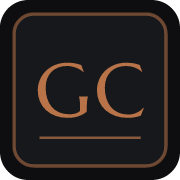
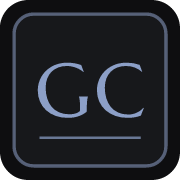
feat: tinta de assinatura índigo — sistema produto
Acento completo #8C9FC7 (índigo ferrogálico — a tinta da escrita)
substituindo o cobre: links, prose, filetes, syntax highlight,
Pagefind, favicon GC e OG cards pt/en.

Generated with [Devin](https://devin.ai)

diff --git a/components/pages.tsx b/components/pages.tsx
@@ -32,7 +32,7 @@ export async function HomePage({ locale }: { locale: Locale }) {
   return (
     <Shell locale={locale} currentPath="/">
       <header className="mb-10">
-        <p className="text-xs uppercase tracking-[0.32em] text-copper mb-3">
+        <p className="text-xs uppercase tracking-[0.32em] text-ink mb-3">
           {site.tagline[locale]}
         </p>
         <h1 className="font-display text-4xl sm:text-5xl text-bone tracking-[-0.015em]">
@@ -62,7 +62,7 @@ function TaxonomyChips({ entry, locale }: { entry: Entry; locale: Locale }) {
         <Link
           key={href}
           href={href}
-          className="text-[11px] uppercase tracking-[0.18em] text-dim border border-copper/30 rounded px-2 py-1 hover:text-copper hover:border-copper/60 transition-colors"
+          className="text-[11px] uppercase tracking-[0.18em] text-dim border border-ink/30 rounded px-2 py-1 hover:text-ink hover:border-ink/60 transition-colors"
         >
           {name}
         </Link>
@@ -94,8 +94,8 @@ export async function PostPage({ slug, locale }: { slug: string; locale: Locale 
         </header>
 
         {post.toc.length > 2 && (
-          <nav className="border border-copper/25 rounded-md bg-stock px-5 py-4 mb-10">
-            <p className="engraved-title text-[11px] uppercase text-copper mb-3">
+          <nav className="border border-ink/25 rounded-md bg-stock px-5 py-4 mb-10">
+            <p className="engraved-title text-[11px] uppercase text-ink mb-3">
               {t(locale, 'toc')}
             </p>
             <ul className="space-y-1.5">
@@ -103,7 +103,7 @@ export async function PostPage({ slug, locale }: { slug: string; locale: Locale 
                 <li key={item.id} style={{ paddingLeft: `${(item.depth - 2) * 1.25}rem` }}>
                   <a
                     href={`#${item.id}`}
-                    className="text-sm text-dim hover:text-copper transition-colors"
+                    className="text-sm text-dim hover:text-ink transition-colors"
                   >
                     {item.text}
                   </a>
@@ -115,8 +115,8 @@ export async function PostPage({ slug, locale }: { slug: string; locale: Locale 
 
         <MarkdownBody html={post.html} />
 
-        <div className="mt-16 pt-8 border-t border-copper/25">
-          <p className="engraved-title text-[11px] uppercase text-copper mb-2">
+        <div className="mt-16 pt-8 border-t border-ink/25">
+          <p className="engraved-title text-[11px] uppercase text-ink mb-2">
             {t(locale, 'comments')}
           </p>
           <DisqusComments
@@ -163,7 +163,7 @@ export async function ArchivesPage({ locale }: { locale: Locale }) {
       <h1 className="engraved-title text-sm uppercase mb-8">{t(locale, 'archives')}</h1>
       {[...byYear.entries()].map(([year, yearPosts]) => (
         <section key={year} className="mb-10">
-          <h2 className="font-display text-2xl text-copper mb-2">{year}</h2>
+          <h2 className="font-display text-2xl text-ink mb-2">{year}</h2>
           <PostList posts={yearPosts} locale={locale} />
         </section>
       ))}

diff --git a/components/SiteHeader.tsx b/components/SiteHeader.tsx
@@ -16,18 +16,18 @@ export function SiteHeader({ locale, currentPath }: Props) {
   ];
 
   return (
-    <header className="border-b border-copper/25 bg-desk/85 backdrop-blur-sm sticky top-0 z-50">
+    <header className="border-b border-ink/25 bg-desk/85 backdrop-blur-sm sticky top-0 z-50">
       <div className="max-w-3xl mx-auto flex items-center justify-between px-4 py-4">
         <Link
           href={localePath(locale, '/')}
-          className="group flex items-center gap-3 font-display text-lg text-bone tracking-[-0.015em] hover:text-copper transition-colors"
+          className="group flex items-center gap-3 font-display text-lg text-bone tracking-[-0.015em] hover:text-ink transition-colors"
         >
           <img
             src={`${process.env.NEXT_PUBLIC_BASE_PATH ?? ''}/img/avatar-artistic.png`}
             alt=""
             width={32}
             height={32}
-            className="rounded-full border border-copper/45 shadow-[0_0_0_2px_#0e0e10,0_0_0_3px_rgba(184,115,72,0.35)] group-hover:border-copper transition-colors"
+            className="rounded-full border border-ink/45 shadow-[0_0_0_2px_#0e0e10,0_0_0_3px_rgba(184,115,72,0.35)] group-hover:border-ink transition-colors"
           />
           {site.name}
         </Link>
@@ -39,9 +39,9 @@ export function SiteHeader({ locale, currentPath }: Props) {
               <Link
                 key={link.href}
                 href={link.href}
-                className={`relative py-1 text-[11px] uppercase tracking-[0.22em] transition-colors hover:text-copper ${
+                className={`relative py-1 text-[11px] uppercase tracking-[0.22em] transition-colors hover:text-ink ${
                   active
-                    ? 'text-copper after:absolute after:inset-x-0 after:bottom-0 after:h-px after:bg-copper/70'
+                    ? 'text-ink after:absolute after:inset-x-0 after:bottom-0 after:h-px after:bg-ink/70'
                     : 'text-dim'
                 }`}
               >
@@ -51,7 +51,7 @@ export function SiteHeader({ locale, currentPath }: Props) {
           })}
           <Link
             href={altLocalePath(locale, currentPath)}
-            className="text-[11px] uppercase tracking-[0.22em] text-dim border border-copper/30 rounded px-2 py-1 hover:text-copper hover:border-copper/60 transition-colors"
+            className="text-[11px] uppercase tracking-[0.22em] text-dim border border-ink/30 rounded px-2 py-1 hover:text-ink hover:border-ink/60 transition-colors"
             hrefLang={locale === 'pt' ? 'en' : 'pt-BR'}
           >
             {locale === 'pt' ? 'EN' : 'PT'}

diff --git a/app/globals.css b/app/globals.css
@@ -18,12 +18,12 @@ body {
 }
 
 ::selection {
-  background: #b87348;
+  background: #8C9FC7;
   color: #17181b;
 }
 
 :focus-visible {
-  outline: 2px solid #b87348;
+  outline: 2px solid #8C9FC7;
   outline-offset: 3px;
 }
 
@@ -49,7 +49,7 @@ a {
 .studio-light {
   background: radial-gradient(
     1200px 600px at 50% -10%,
-    rgba(184, 115, 72, 0.09),
+    rgba(140, 159, 199, 0.09),
     transparent 62%
   );
 }
@@ -70,12 +70,12 @@ a {
   content: "";
   flex: 1;
   height: 1px;
-  background: linear-gradient(to right, rgba(184, 115, 72, 0.45), transparent);
+  background: linear-gradient(to right, rgba(140, 159, 199, 0.45), transparent);
 }
 
 /* filete de hairline cobre */
 .filete {
-  border-color: rgba(184, 115, 72, 0.25);
+  border-color: rgba(140, 159, 199, 0.25);
 }
 
 /* reveal — blocos sobem ao entrar no viewport (CSS puro, sem JS) */
@@ -97,21 +97,21 @@ a {
 }
 
 /* ——— Código (rehype-highlight) na paleta ——— */
-.hljs-keyword, .hljs-selector-tag, .hljs-built_in { color: #b87348; }
-.hljs-string, .hljs-attr, .hljs-template-variable { color: #d9a06e; }
+.hljs-keyword, .hljs-selector-tag, .hljs-built_in { color: #8C9FC7; }
+.hljs-string, .hljs-attr, .hljs-template-variable { color: #A9BAD9; }
 .hljs-comment, .hljs-quote { color: #9c9486; font-style: italic; }
-.hljs-number, .hljs-literal, .hljs-symbol { color: #e2a56e; }
+.hljs-number, .hljs-literal, .hljs-symbol { color: #B3C3E4; }
 .hljs-title, .hljs-name, .hljs-section { color: #efe9dc; }
 pre.hljs, .hljs { background: #17181b; }
 
 /* ——— Pagefind UI na paleta ——— */
 :root {
   --pagefind-ui-scale: 1;
-  --pagefind-ui-primary: #b87348;
+  --pagefind-ui-primary: #8C9FC7;
   --pagefind-ui-text: #efe9dc;
   --pagefind-ui-background: #17181b;
-  --pagefind-ui-border: rgba(184, 115, 72, 0.3);
-  --pagefind-ui-tag: rgba(184, 115, 72, 0.15);
+  --pagefind-ui-border: rgba(140, 159, 199, 0.3);
+  --pagefind-ui-tag: rgba(140, 159, 199, 0.15);
   --pagefind-ui-border-width: 1px;
   --pagefind-ui-border-radius: 4px;
   --pagefind-ui-font: 'Spectral', Georgia, serif;

diff --git a/tailwind.config.ts b/tailwind.config.ts
@@ -10,7 +10,7 @@ const config: Config = {
         desk: '#0E0E10',
         stock: '#17181B',
         bone: '#EFE9DC',
-        copper: '#B87348',
+        ink: '#8C9FC7',
         dim: '#9C9486',
       },
       fontFamily: {
@@ -23,22 +23,22 @@ const config: Config = {
             '--tw-prose-body': '#EFE9DC',
             '--tw-prose-headings': '#EFE9DC',
             '--tw-prose-lead': '#9C9486',
-            '--tw-prose-links': '#B87348',
+            '--tw-prose-links': '#8C9FC7',
             '--tw-prose-bold': '#EFE9DC',
-            '--tw-prose-counters': '#B87348',
-            '--tw-prose-bullets': '#B87348',
-            '--tw-prose-hr': 'rgba(184,115,72,0.3)',
+            '--tw-prose-counters': '#8C9FC7',
+            '--tw-prose-bullets': '#8C9FC7',
+            '--tw-prose-hr': 'rgba(140,159,199,0.3)',
             '--tw-prose-quotes': '#9C9486',
-            '--tw-prose-quote-borders': '#B87348',
+            '--tw-prose-quote-borders': '#8C9FC7',
             '--tw-prose-captions': '#9C9486',
             '--tw-prose-code': '#EFE9DC',
             '--tw-prose-pre-code': '#EFE9DC',
             '--tw-prose-pre-bg': '#17181B',
-            '--tw-prose-th-borders': 'rgba(184,115,72,0.3)',
-            '--tw-prose-td-borders': 'rgba(184,115,72,0.2)',
+            '--tw-prose-th-borders': 'rgba(140,159,199,0.3)',
+            '--tw-prose-td-borders': 'rgba(140,159,199,0.2)',
             'h1, h2, h3, h4': { fontFamily: 'var(--font-display)', fontWeight: '400' },
-            a: { textDecorationColor: 'rgba(184,115,72,0.4)' },
-            'a:hover': { textDecorationColor: '#B87348' },
+            a: { textDecorationColor: 'rgba(140,159,199,0.4)' },
+            'a:hover': { textDecorationColor: '#8C9FC7' },
             blockquote: { fontStyle: 'italic' },
             img: { borderRadius: '4px' },
           },

diff --git a/components/PostList.tsx b/components/PostList.tsx
@@ -8,7 +8,7 @@ export function PostList({ posts, locale }: { posts: Entry[]; locale: Locale }) 
     return <p className="text-dim italic">{t(locale, 'noPosts')}</p>;
   }
   return (
-    <ul className="divide-y divide-copper/20">
+    <ul className="divide-y divide-ink/20">
       {posts.map((post) => (
         <li key={post.slug}>
           <Link
@@ -16,7 +16,7 @@ export function PostList({ posts, locale }: { posts: Entry[]; locale: Locale }) 
             className="group flex items-baseline justify-between gap-4 py-5"
           >
             <span className="min-w-0">
-              <span className="font-display text-lg text-bone group-hover:text-copper transition-colors block">
+              <span className="font-display text-lg text-bone group-hover:text-ink transition-colors block">
                 {post.title}
               </span>
               {post.description && (

diff --git a/components/NotFound.tsx b/components/NotFound.tsx
@@ -8,11 +8,11 @@ export function NotFound({ locale }: { locale: Locale }) {
     <div className="min-h-screen flex flex-col bg-desk studio-light font-body text-bone">
       <SiteHeader locale={locale} currentPath="/404" />
       <main className="flex-1 w-full max-w-3xl mx-auto px-4 py-24 text-center">
-        <p className="font-display text-6xl text-copper mb-6">❧ 404</p>
+        <p className="font-display text-6xl text-ink mb-6">❧ 404</p>
         <h1 className="font-display text-2xl text-bone mb-8">{t(locale, 'notFound')}</h1>
         <Link
           href={localePath(locale, '/')}
-          className="text-copper underline decoration-copper/40 hover:decoration-copper transition-colors"
+          className="text-ink underline decoration-ink/40 hover:decoration-ink transition-colors"
         >
           ← {t(locale, 'articles')}
         </Link>

diff --git a/components/SiteFooter.tsx b/components/SiteFooter.tsx
@@ -2,7 +2,7 @@ import { t, type Locale } from '@/lib/i18n';
 
 export function SiteFooter({ locale }: { locale: Locale }) {
   return (
-    <footer className="border-t border-copper/25 mt-16">
+    <footer className="border-t border-ink/25 mt-16">
       <div className="max-w-3xl mx-auto px-4 py-8 text-center text-xs text-dim tracking-[0.2em] uppercase">
         ❧ {t(locale, 'footerLine')} · © {new Date().getFullYear()}
       </div>
